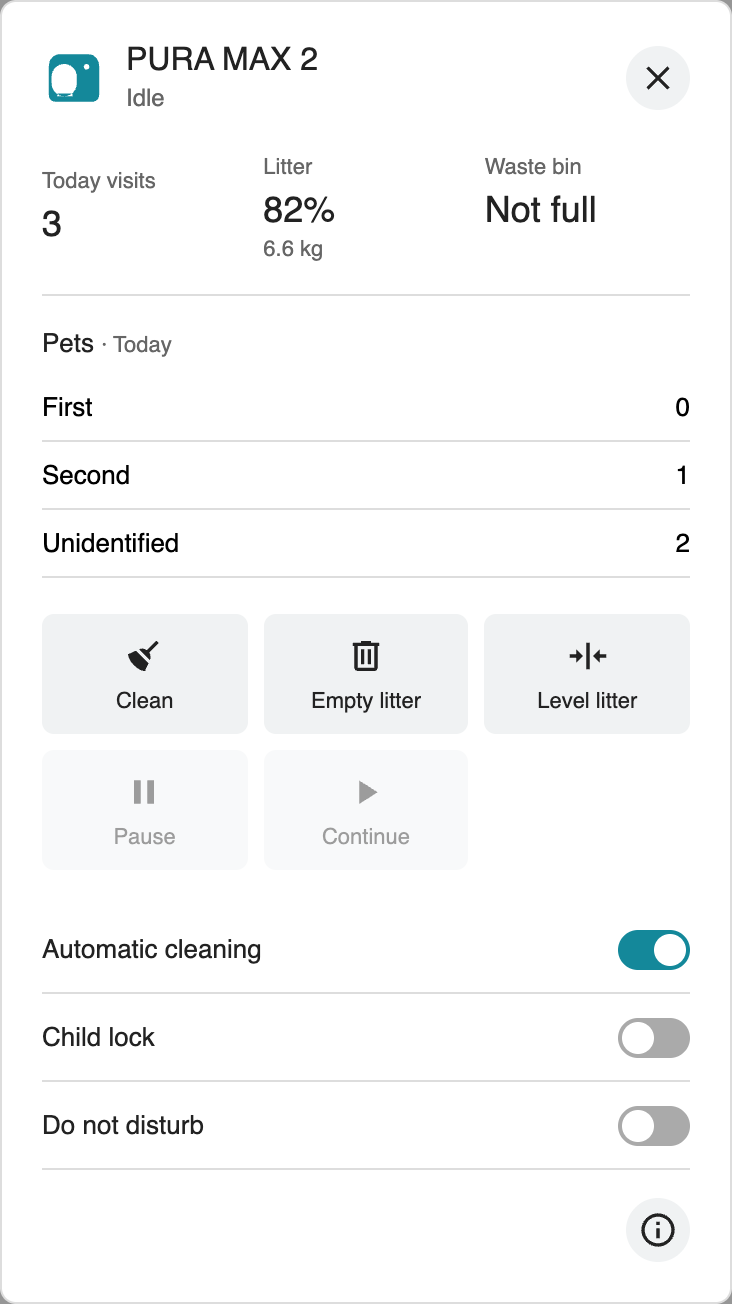
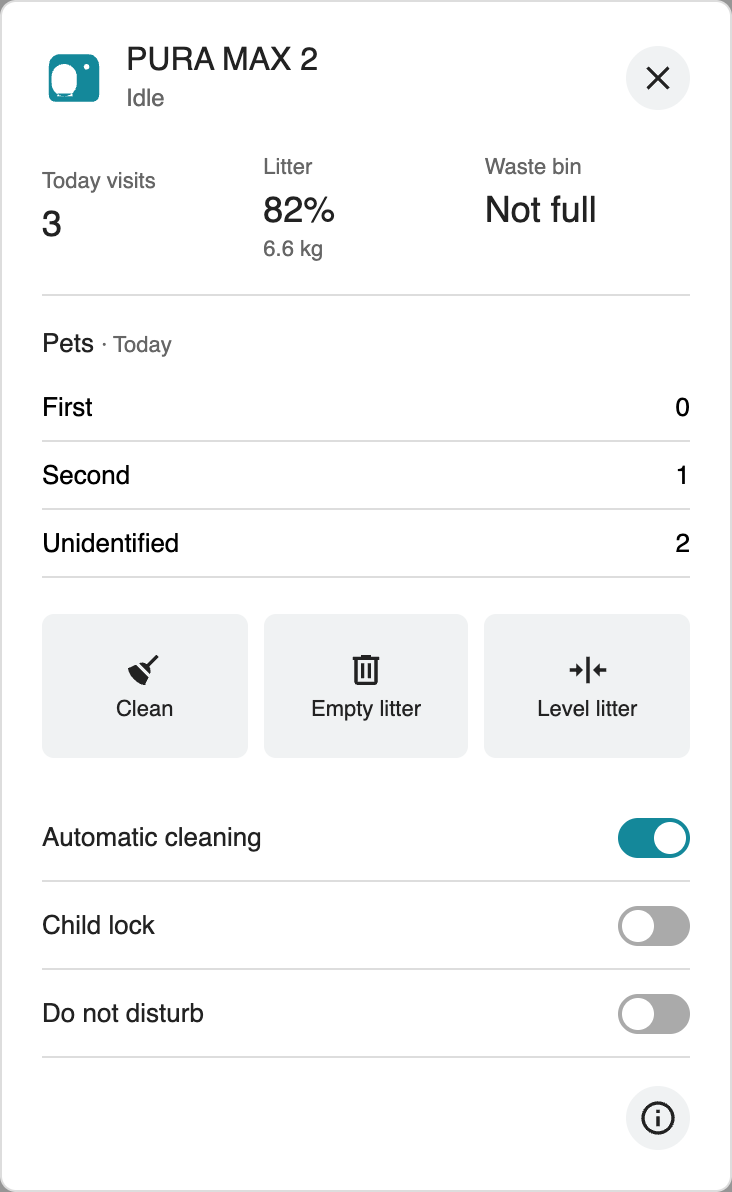
Make Petkit operation controls follow device state

diff --git a/src/cards/petkit-litter-card.js b/src/cards/petkit-litter-card.js
@@ -43,13 +43,22 @@ class PetkitLitterCard extends HTMLElement {
   }
   state(key) { return this._hass?.states?.[key === 'status' ? this.config.entity : this.entity(key)]?.state; }
   online() { return /^online(?:_|$)/.test(this.state('status') || ''); }
+  operation() {
+    if (!this.online()) return {};
+    const raw = this.state('state') || '';
+    const match = raw.match(/^(cleaning|dumping|leveling)(?:(_paused)(?:_.*)?)?$/);
+    if (match) return { slot: ({ cleaning: 'scoop', dumping: 'dump', leveling: 'level' })[match[1]], action: match[2] ? 'continue' : 'pause' };
+    return /^paused(?:_|$)/.test(raw) ? { action: 'continue' } : {};
+  }
   blocked(key) {
     if (this.pending || this.awaiting) return 'Waiting for the previous request';
     if (!this.online()) return 'Device is offline or unavailable';
     if (!this._hass?.callService) return 'Controls are unavailable';
     const target = this._hass.states[this.entity(key)];
     if (!target || target.state === 'unavailable') return 'This action is unavailable';
+    if (['pause', 'continue'].includes(key) && this.operation().action !== key) return 'Device state has changed';
     if (key === 'pause') return '';
+    if (key === 'continue' && /(?:^|_)paused_/.test(this.state('state') || '')) return 'Device is paused for a safety condition';
     if (this.state('occupancy') !== 'off') return 'Occupancy is detected or unknown';
     if (!['no error', 'none', '0'].includes((this.state('fault') || '').toLowerCase())) return 'Fault status is not clear';
     if (['scoop', 'dump', 'level'].includes(key) && this.state('state') !== 'idle') return 'Device is not idle';
@@ -58,11 +67,11 @@ class PetkitLitterCard extends HTMLElement {
   }
   stage(key) {
     if (!actions.some(a => a[0] === key) || this.blocked(key)) return;
-    this.selected = key; this.update();
+    this.selected = key; this.selectedState = this.state('state'); this.update();
   }
   async confirmAction() {
     const key = this.selected;
-    if (!key || this.blocked(key)) return;
+    if (!key || this.selectedState !== this.state('state') || this.blocked(key)) return;
     this.selected = null;
     await this.request('button', 'press', this.entity(key), true);
   }
@@ -97,6 +106,7 @@ class PetkitLitterCard extends HTMLElement {
   update() {
     if (!this.config || !this.shadowRoot) return;
     const root = this.shadowRoot, raw = this.state('state');
+    if (this.selected && this.selectedState !== raw) this.selected = null;
     if (this.awaiting && raw && !['unknown', 'unavailable'].includes(raw) && raw !== this.awaiting.before) {
       this.awaiting = null; clearTimeout(this.readbackTimer); this.feedback = 'Device state updated';
     }
@@ -119,10 +129,22 @@ class PetkitLitterCard extends HTMLElement {
       name.scope = 'row'; name.textContent = pet.name; value.textContent = String(pet.count ?? '\u2014'); row.append(name, value); body.append(row);
     }
     root.querySelector('.stats-warning').hidden = visits.complete;
-    for (const [key, title] of actions) {
-      const button = root.querySelector(`[data-action="${key}"]`), reason = this.blocked(key);
-      button.disabled = !!reason; button.title = reason || title;
+    const operation = this.operation();
+    for (const [slot, title] of actions.slice(0, 3)) {
+      const key = operation.slot === slot ? operation.action : slot;
+      const [, actionTitle, icon] = actions.find(a => a[0] === key);
+      const button = root.querySelector(`[data-slot="${slot}"]`), reason = this.blocked(key);
+      button.dataset.action = key; button.disabled = !!reason;
+      button.title = reason || (key === slot ? title : `${actionTitle}: ${title}`);
+      button.classList.toggle('current', key !== slot);
+      button.querySelector('ha-icon').setAttribute('icon', icon);
+      button.querySelector('.action-label').textContent = actionTitle;
+      const caption = button.querySelector('.operation-label'); caption.textContent = title; caption.hidden = key === slot;
     }
+    const overlay = root.querySelector('.context-action');
+    overlay.hidden = !operation.action || !!operation.slot;
+    overlay.disabled = !!this.blocked('continue');
+    overlay.title = this.blocked('continue') || 'Continue current operation';
     const confirmation = root.querySelector('.confirmation'); confirmation.hidden = !this.selected;
     root.querySelector('.confirm-label').textContent = this.selected ? `${actions.find(a => a[0] === this.selected)[1]}?` : '';
     root.querySelector('.confirm').disabled = !this.selected || !!this.blocked(this.selected);
@@ -139,6 +161,7 @@ class PetkitLitterCard extends HTMLElement {
       .entry{display:flex;align-items:center;gap:12px;width:100%;height:66px;min-width:0;padding:8px 12px;text-align:left;border:1px solid var(--ha-card-border-color,var(--divider-color,#ddd));border-radius:8px;background:var(--ha-card-background,var(--card-background-color,#fff))}.device-art{display:grid;place-items:center;flex:none;width:32px;height:32px;color:var(--state-icon-color,#999)}.device-art svg{width:28px;height:28px}.device-art.active{color:var(--primary-color,#03a9f4)}.info{flex:1;min-width:0}.name{display:block;font-size:14px;line-height:18px;font-weight:500;white-space:nowrap;overflow:hidden;text-overflow:ellipsis}.summary{display:block;font-size:12px;color:var(--secondary-text-color,#777);white-space:nowrap;overflow:hidden;text-overflow:ellipsis}
       dialog{width:420px;max-width:calc(100vw - 24px);max-height:calc(100dvh - 24px);overflow:auto;padding:20px;border:1px solid var(--divider-color,#ddd);border-radius:8px;background:var(--card-background-color,#fff);color:inherit}dialog::backdrop{background:#0006}header{display:flex;align-items:center;gap:10px}.heading{flex:1;min-width:0}.title{font-size:16px;font-weight:500;overflow-wrap:anywhere}.status{font-size:12px;color:var(--secondary-text-color,#777);margin-top:3px}.icon-button{display:grid;place-items:center;width:32px;height:32px;flex:none;border-radius:50%;background:var(--secondary-background-color,#eee)}ha-icon{--mdc-icon-size:20px}
       .metrics{display:grid;grid-template-columns:repeat(3,minmax(0,1fr));gap:8px;padding:20px 0 16px;border-bottom:1px solid var(--divider-color,#ddd)}.metric{min-width:0;text-align:left;padding:0}.metric-label{display:block;font-size:11px;line-height:16px;color:var(--secondary-text-color,#777)}.metric-value{display:block;font-size:18px;line-height:26px;font-weight:500;overflow-wrap:anywhere}.weight{font-size:11px;color:var(--secondary-text-color,#777)}.pets{margin:16px 0}.section-title{font-size:13px;font-weight:500;margin:0 0 8px}table{width:100%;border-collapse:collapse;table-layout:fixed;font-size:13px}th,td{padding:9px 0;border-bottom:1px solid var(--divider-color,#eee)}th{text-align:left;font-weight:400;overflow-wrap:anywhere}td{text-align:right;width:52px;font-variant-numeric:tabular-nums}.stats-warning,.feedback{font-size:12px;line-height:18px;color:var(--secondary-text-color,#777);overflow-wrap:anywhere;margin:10px 0}.actions{display:grid;grid-template-columns:repeat(3,minmax(0,1fr));gap:8px;margin:18px 0}.action{display:flex;flex-direction:column;gap:6px;align-items:center;justify-content:center;min-height:60px;padding:8px 2px;background:var(--secondary-background-color,#f1f3f4);border-radius:6px;font-size:11px;text-align:center;overflow-wrap:anywhere}.confirmation{display:flex;align-items:center;gap:8px;flex-wrap:wrap;border-block:1px solid var(--divider-color,#ddd);padding:12px 0;margin-bottom:12px;font-size:13px}.confirm-label{flex:1;min-width:80px}.confirm,.cancel{display:flex;align-items:center;gap:4px;padding:6px}.confirm{color:var(--error-color,#c62828)}.setting{display:flex;align-items:center;justify-content:space-between;gap:12px;min-height:44px;font-size:13px;border-bottom:1px solid var(--divider-color,#eee)}input[role=switch]{appearance:none;position:relative;flex:none;width:36px;height:20px;border:0;border-radius:10px;background:var(--disabled-color,#aaa);cursor:pointer;margin:0}input[role=switch]:before{content:'';position:absolute;width:16px;height:16px;left:2px;top:2px;border-radius:50%;background:white}input[role=switch]:checked{background:var(--primary-color,#03a9f4)}input[role=switch]:checked:before{transform:translateX(16px)}input:disabled{opacity:.45;cursor:default}footer{display:flex;justify-content:flex-end;margin-top:14px}[hidden]{display:none!important}
+      .actions{position:relative;height:72px}.action{height:72px;gap:3px}.action.current{color:var(--primary-color,#03a9f4);box-shadow:inset 0 0 0 1px currentColor}.operation-label{font-size:10px;color:var(--secondary-text-color,#777)}.context-action{position:absolute;inset:0;display:flex;align-items:center;justify-content:center;gap:8px;border-radius:6px;background:var(--secondary-background-color,#f1f3f4);font-size:13px}
     </style><button class="entry" aria-haspopup="dialog"><span class="device-art">${art}</span><span class="info"><span class="name"></span><span class="summary"></span></span></button>
     <dialog><header><span class="device-art">${art}</span><div class="heading"><div class="title"></div><div class="status"></div></div><button class="icon-button close" title="Close" aria-label="Close"><ha-icon icon="mdi:close"></ha-icon></button></header>
     <div class="metrics"><button class="metric stats-history" title="Today visits history"><span class="metric-label">Today visits</span><span class="metric-value today-total"></span></button><button class="metric litter-history" title="Litter level history"><span class="metric-label">Litter</span><span class="metric-value litter-value"></span><span class="weight weight-value"></span></button><div class="metric"><span class="metric-label">Waste bin</span><span class="metric-value waste-value"></span></div></div>
@@ -154,11 +177,14 @@ class PetkitLitterCard extends HTMLElement {
     root.querySelector('.stats-history').onclick = () => this.history(this.config.stats_entity);
     root.querySelector('.litter-history').onclick = () => this.history(this.entity('litter'));
     root.querySelector('.more-info').onclick = () => this.history(this.config.entity);
-    for (const [key, title, icon] of actions) {
-      const button = document.createElement('button'); button.className = 'action'; button.dataset.action = key;
-      button.innerHTML = `<ha-icon icon="${icon}"></ha-icon><span>${title}</span>`;
-      button.onclick = () => this.stage(key); root.querySelector('.actions').append(button);
+    for (const [key, title, icon] of actions.slice(0, 3)) {
+      const button = document.createElement('button'); button.className = 'action'; button.dataset.slot = key; button.dataset.action = key;
+      button.innerHTML = `<ha-icon icon="${icon}"></ha-icon><span class="action-label">${title}</span><span class="operation-label" hidden></span>`;
+      button.onclick = () => this.stage(button.dataset.action); root.querySelector('.actions').append(button);
     }
+    const overlay = document.createElement('button'); overlay.className = 'context-action'; overlay.dataset.action = 'continue'; overlay.hidden = true;
+    overlay.innerHTML = '<ha-icon icon="mdi:play"></ha-icon><span>Continue</span>';
+    overlay.onclick = () => this.stage('continue'); root.querySelector('.actions').append(overlay);
     for (const [key, title] of settings) {
       const row = document.createElement('label'); row.className = 'setting';
       row.innerHTML = `<span>${title}</span><input type="checkbox" role="switch" aria-label="${title}" data-setting="${key}">`;

diff --git a/README.md b/README.md
@@ -34,6 +34,15 @@ row. The breakdown must reconcile with the total and match today's date in
 the source timezone. Missing/stale/inconsistent data shows a dash, not zero.
 The card never requests raw diagnostics, account data or device secrets.
 
+The operation menu keeps three fixed positions: Clean, Empty litter and Level
+litter. The reported active operation changes to Pause in its own position,
+and operation-specific paused states change to Continue. A paused state without
+an operation name uses a shared Continue control over the same menu area;
+the card does not guess which operation is paused. Updates never send commands.
+Reported safety pauses keep Continue disabled until the safety condition clears.
+The integration currently reports leveling without its pause phase, so the card
+does not invent a leveling-paused state.
+
 Clean, Empty litter, Level litter, Pause and Continue require explicit
 confirmation. Starting motor actions also requires online/idle state, explicit
 unoccupied state and a clear fault sensor. Missing/unavailable actions are
